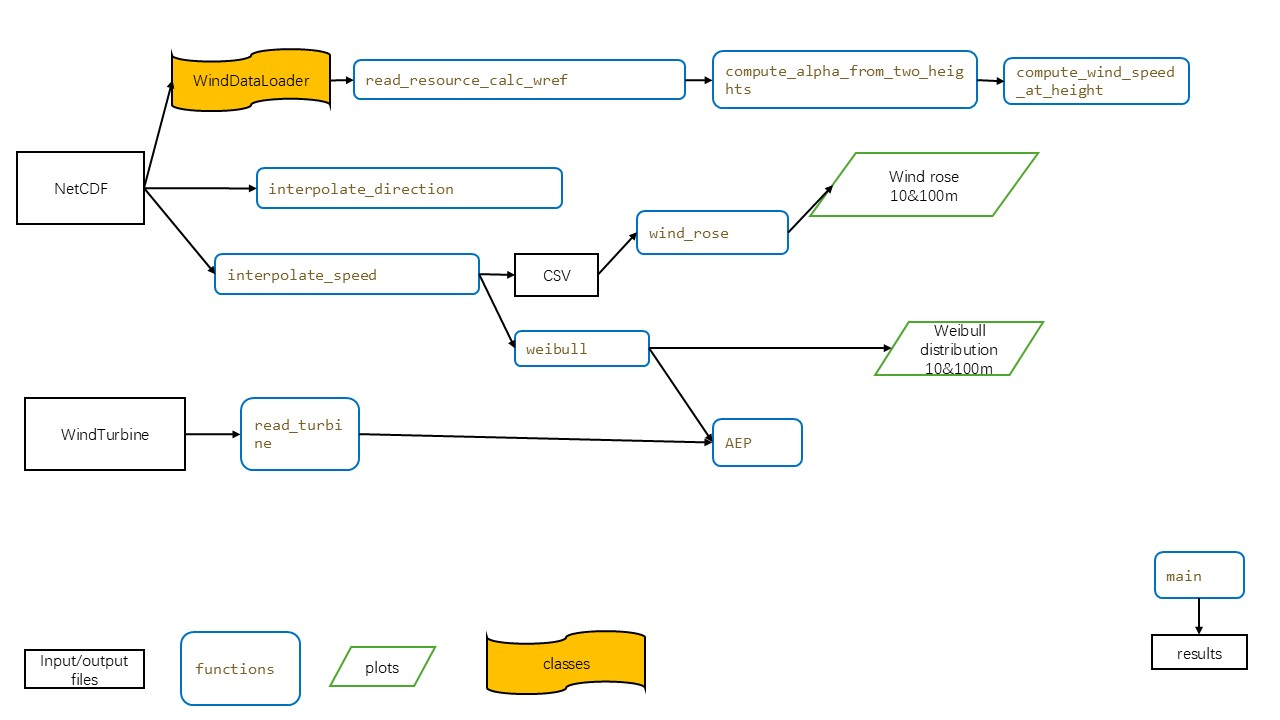
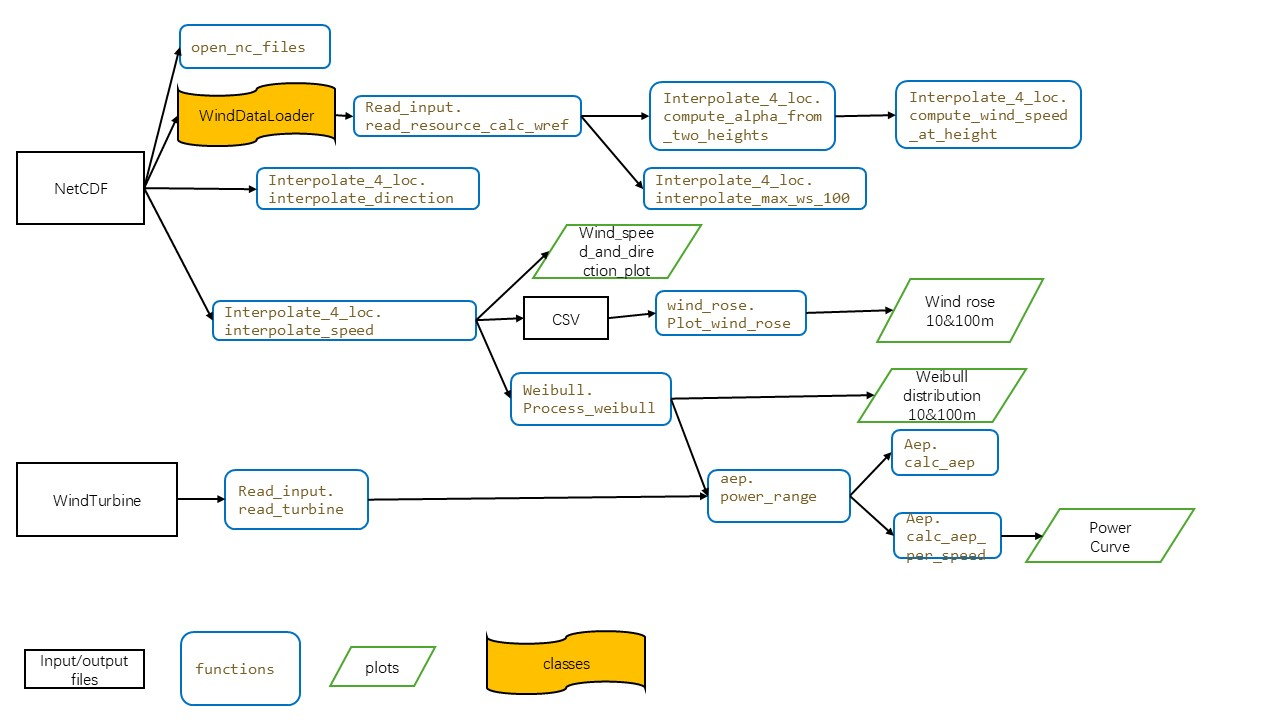
update architecture

diff --git a/tests/test_aep.py b/tests/test_aep.py
@@ -1,0 +1,50 @@
+# import pytest
+# import sys
+# import pandas as pd
+# import numpy as np
+# from pathlib import Path
+# from src.assessment.aep import power_range, calc_aep, calc_aep_per_speed
+# sys.path.append(str(Path(__file__).parent.parent / "src"))
+
+# @pytest.fixture
+# def sample_wind_data():
+#     return pd.DataFrame({
+#         'time': pd.date_range(start='2020-01-01', periods=5, freq='D').tolist() * 2,
+#         'height': [100] * 5 + [10] * 5,
+#         'ref_wind_speed': [4, 6, 8, 10, 12] * 2
+#     })
+
+# @pytest.fixture
+# def sample_turbine_data():
+#     return pd.DataFrame({
+#         'Wind Speed [m/s]': np.array([3, 5, 7, 9, 11]),
+#         'Power [kW]': np.array([0, 100, 500, 1000, 1500])
+#     })
+
+# def test_power_range_output(sample_wind_data, sample_turbine_data):
+#     min_ws, max_ws, length, filtered = power_range(
+#         sample_wind_data, height=100,
+#         turb=sample_turbine_data,
+#         t_start='2020-01-01', t_end='2020-01-05'
+#     )
+#     assert np.isclose(min_ws, 4)
+#     assert np.isclose(max_ws, 12)
+#     assert length == 4  # Only 4 points with power > 0
+#     assert isinstance(filtered, pd.DataFrame)
+#     assert not filtered.empty
+
+# def test_calc_aep_returns_float(sample_turbine_data):
+#     pdf = np.array([0.05, 0.1, 0.25, 0.4, 0.2])
+#     filtered = sample_turbine_data[sample_turbine_data['Power [kW]'] > 0]
+#     aep = calc_aep(filtered, pdf[1:])  # drop first since first power = 0
+#     assert isinstance(aep, float)
+#     assert aep > 0
+
+# def test_calc_aep_per_speed_valid_output(sample_turbine_data):
+#     pdf = np.array([0.0, 0.1, 0.3, 0.4, 0.2])  # same length as turbine power
+#     filtered = sample_turbine_data
+#     # This should NOT raise, even though PDF and turbine speeds align
+#     try:
+#         calc_aep_per_speed(filtered, pdf, coord="TestCoord")
+#     except Exception as e:
+#         pytest.fail(f"calc_aep_per_speed raised an exception: {e}")

diff --git a/tests/test_weibull.py b/tests/test_weibull.py
@@ -7,7 +7,7 @@ from pathlib import Path
 # Add path to src folder
 sys.path.append(str(Path(__file__).parent.parent / "src"))
 
-from assessment.Weibull import process_weibull  # Adjust the path/module if needed
+from assessment.weibull import process_weibull  # Adjust the path/module if needed
 
 
 def test_process_weibull_returns_valid_output_10m():
